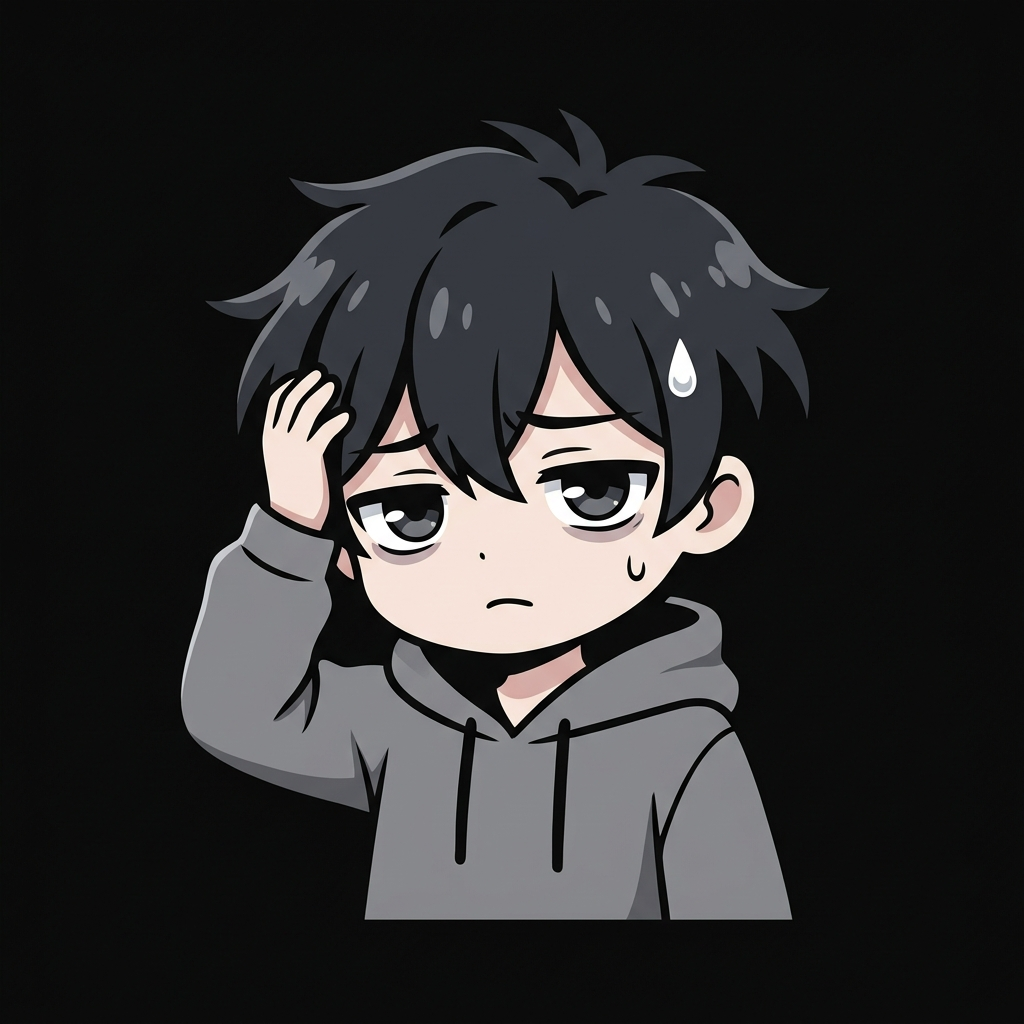
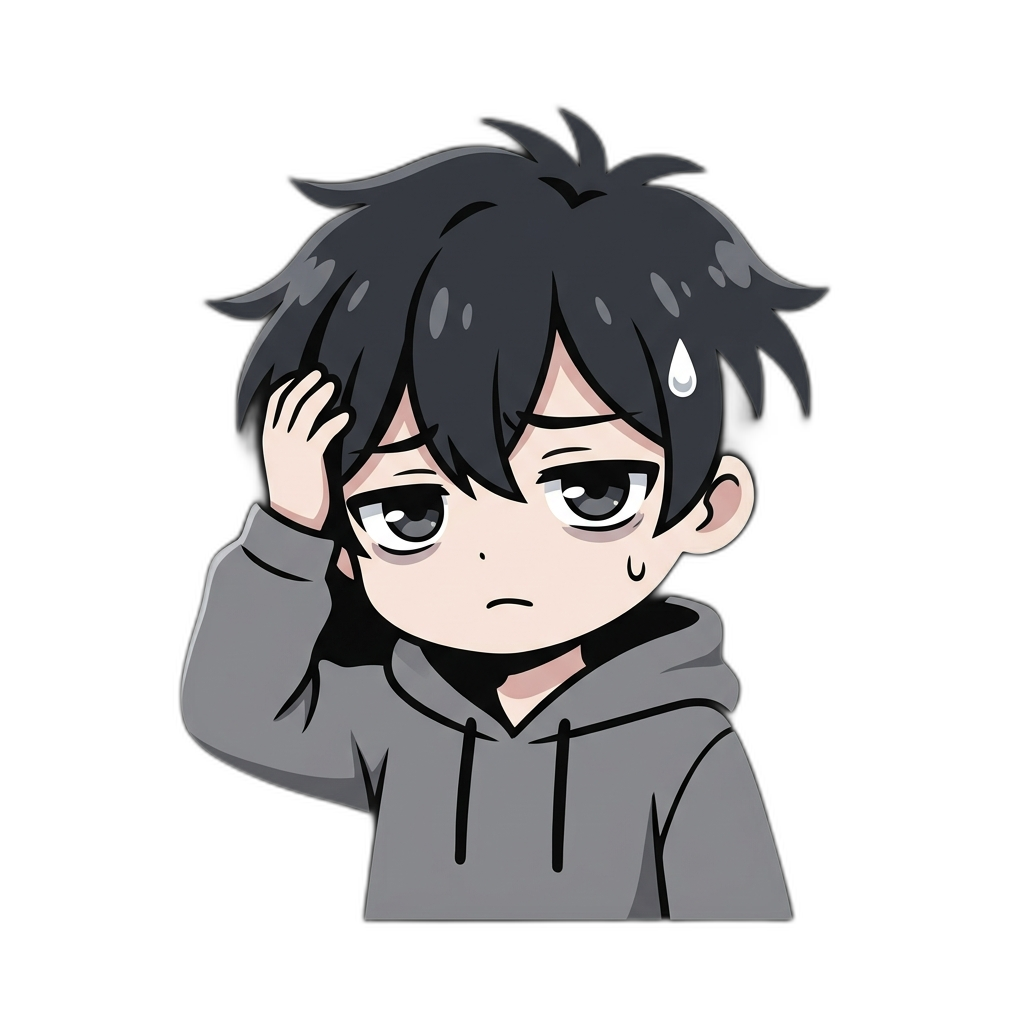
fix: removed background from anime images, adjusted state 2 brightness, scaled up character 30%

diff --git a/components/anime/FreelancerCharacter.tsx b/components/anime/FreelancerCharacter.tsx
@@ -54,7 +54,7 @@ export default function FreelancerCharacter({
   const characterScale = useTransform(
     scrollYProgress,
     [0, 0.75, 1],
-    [1.0, 1.0, 1.05]
+    [1.3, 1.3, 1.35]
   );
 
 
